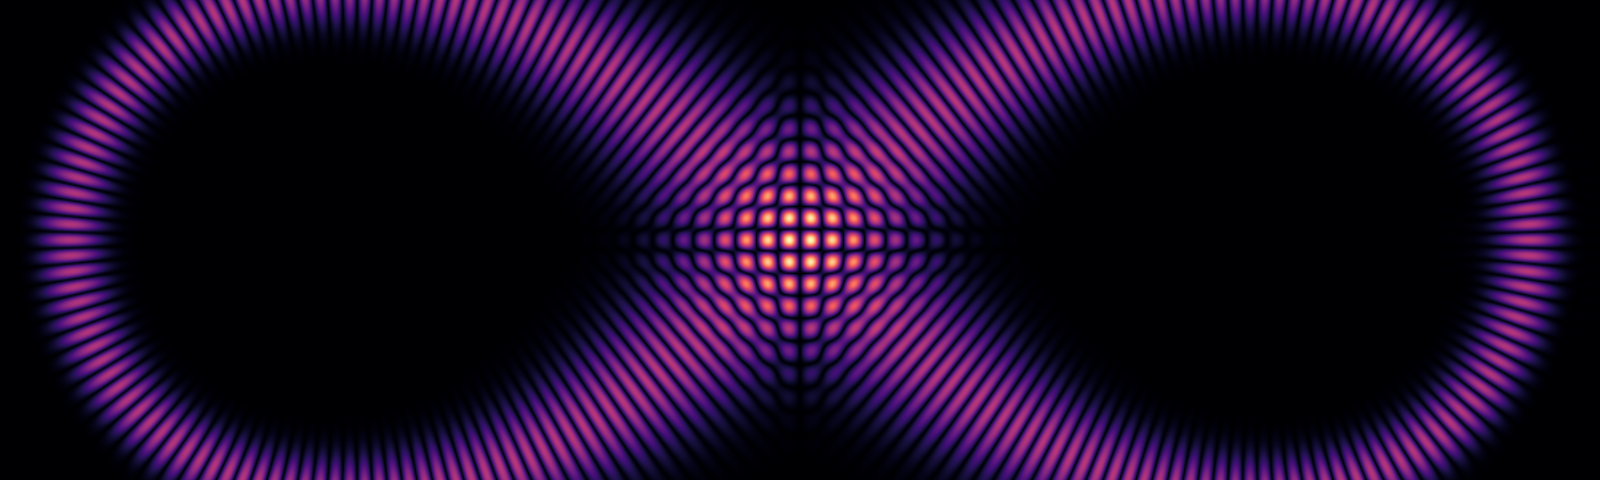
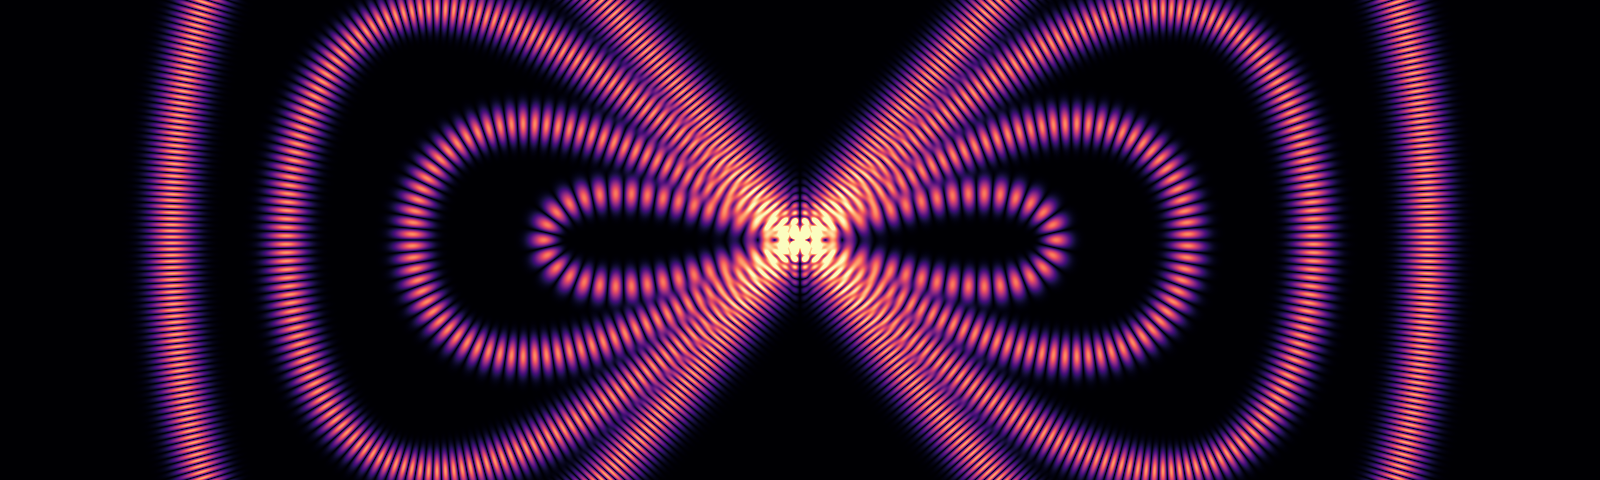
Quasimode graphic: nested sequence of figure-eights

diff --git a/_pages/about.md b/_pages/about.md
@@ -23,5 +23,5 @@ My research interests are broadly geometric mechanics (sub-Riemannian geometry),
 
 I co-organized the [Bath Analysis Seminar](https://bath-analysis.github.io/).
 
-<img src="/images/quasimode-banner.png" alt="Quasimode concentrating on a figure-eight curve" style="width:100%;border-radius:8px;margin-top:1.5em">
-*A quasimode concentrating on a figure-eight: the construction behind my current work on the local density of states.*
+<img src="/images/quasimode-banner.png" alt="Nested quasimodes concentrating on a sequence of figure-eight curves crossing at one point" style="width:100%;border-radius:8px;margin-top:1.5em">
+*Nested quasimodes concentrating on a sequence of figure-eights, all crossing at one point: the construction behind my current work on the local density of states.*
